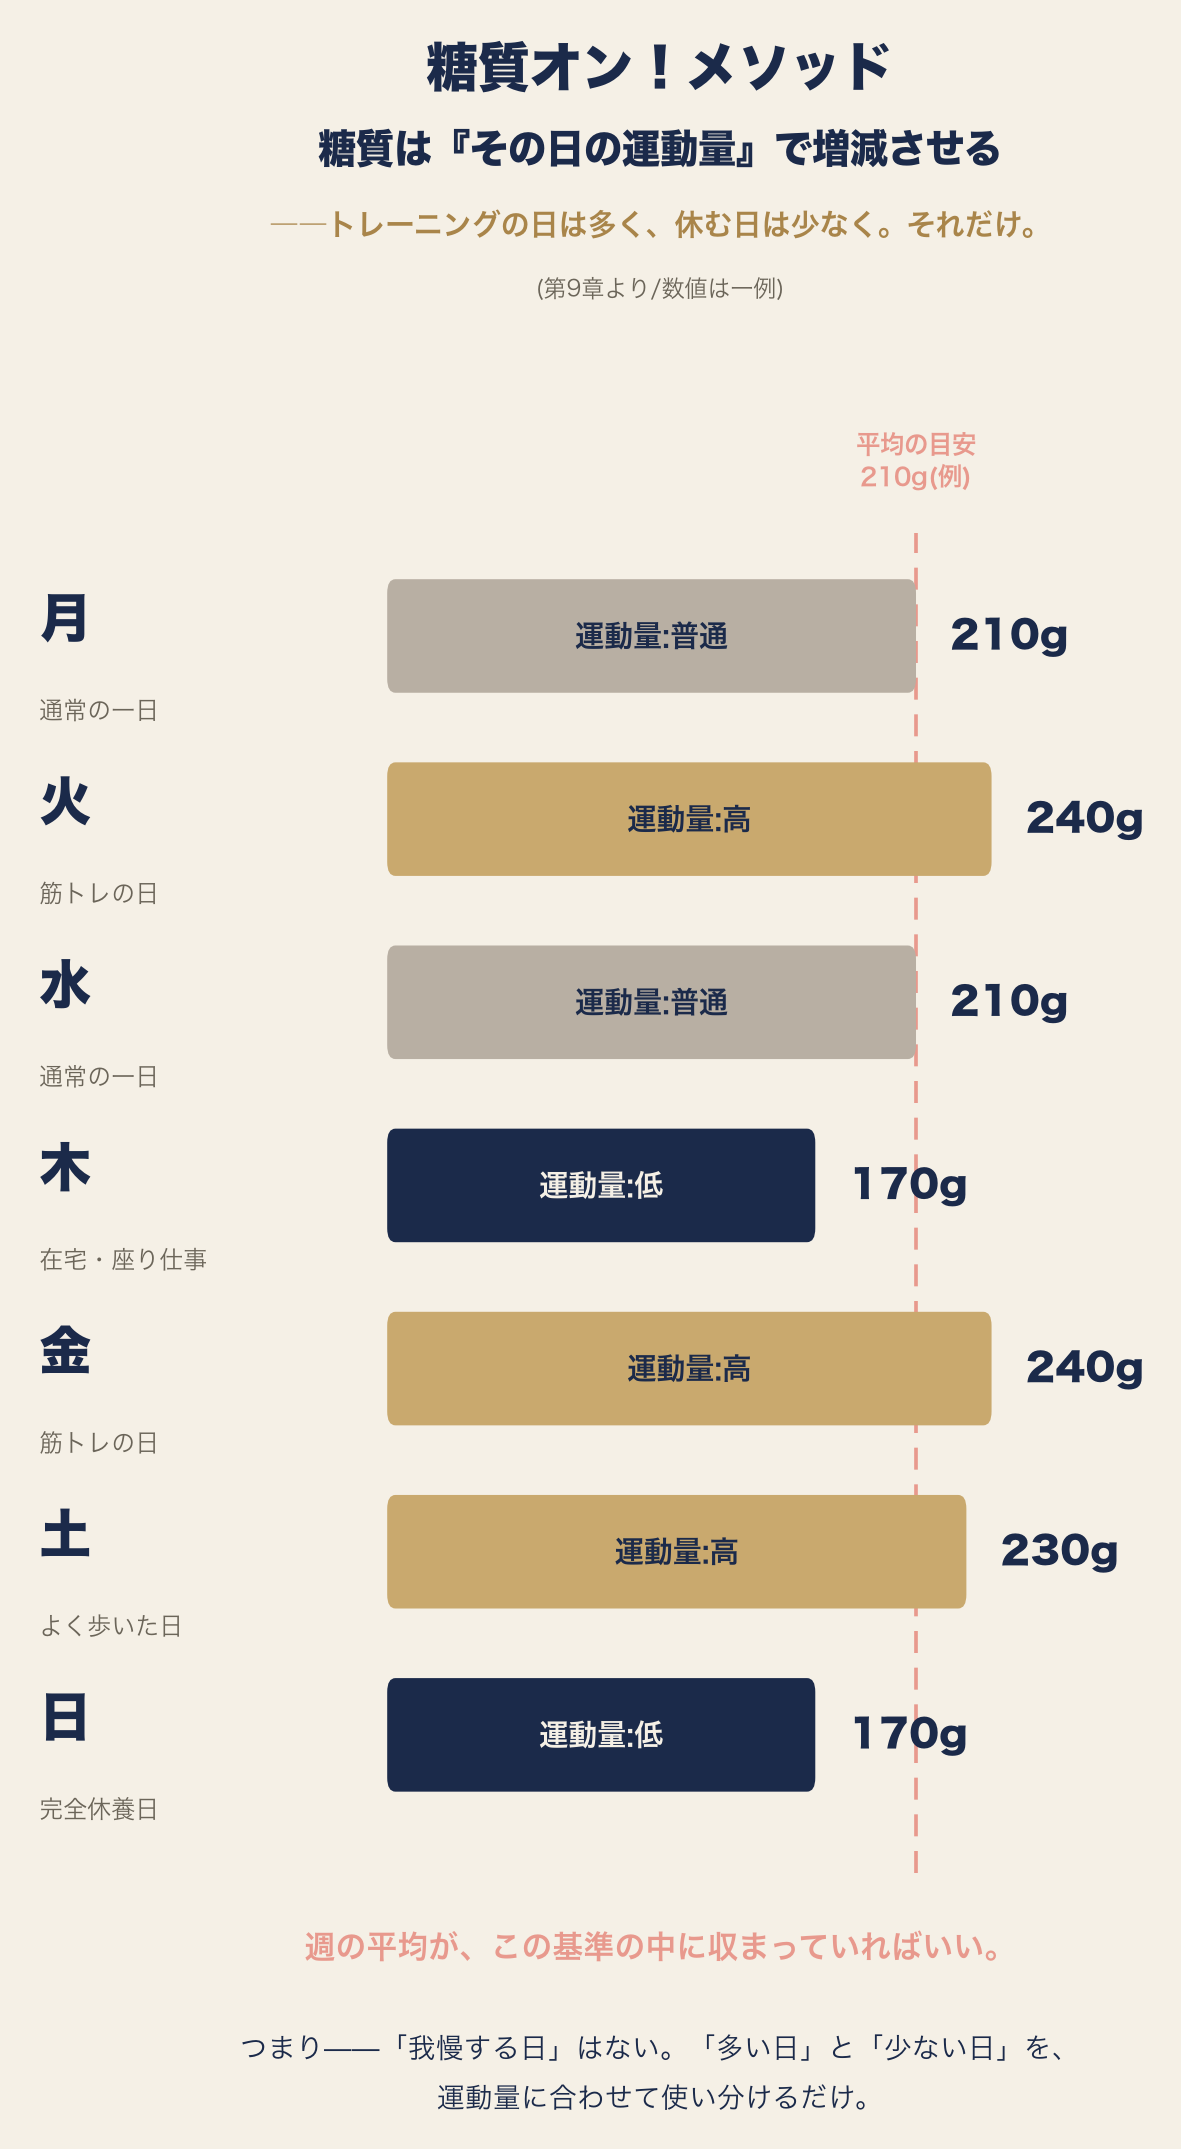
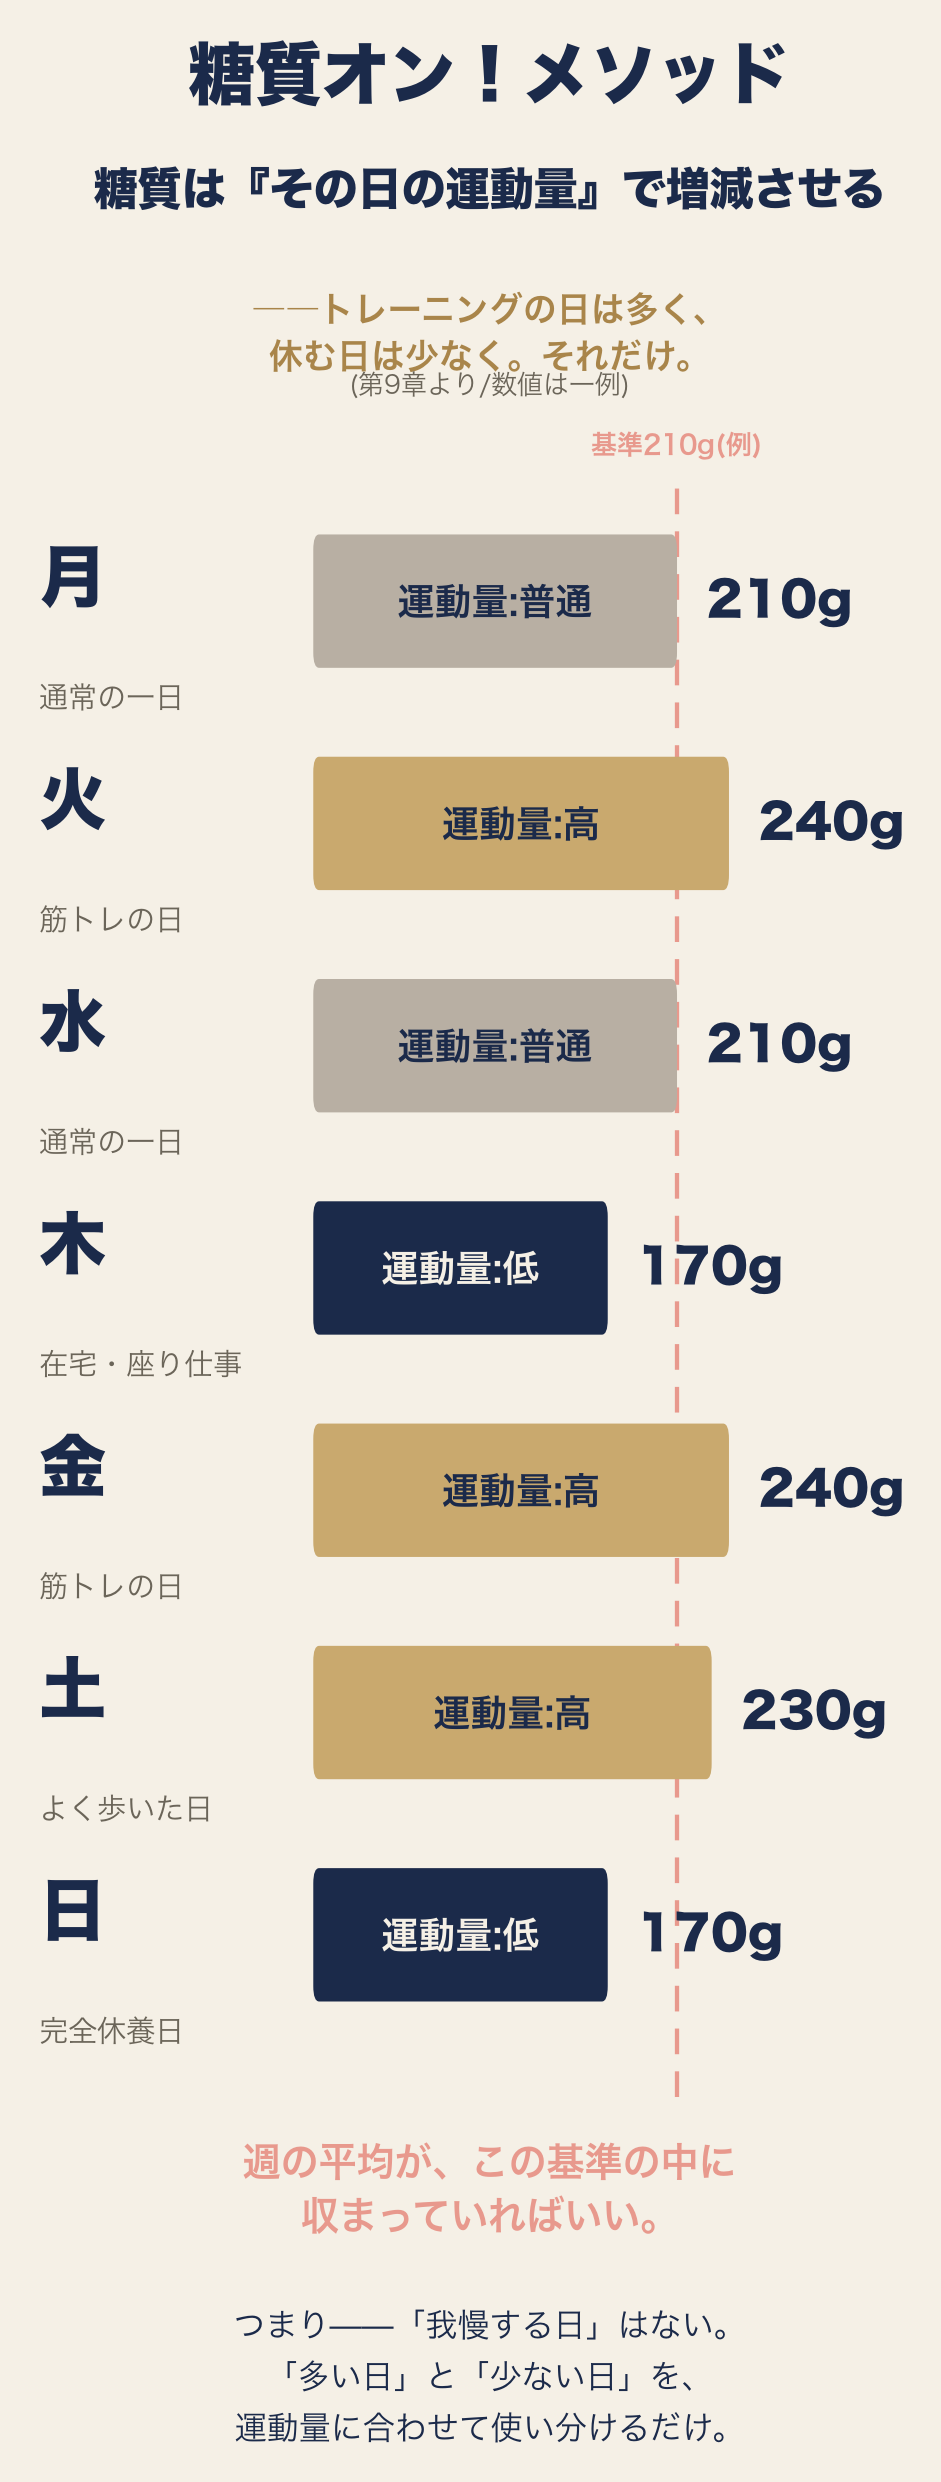
図解03をスマホ表示幅に最適化し文字を大幅拡大(キャンバス幅を縮小してテキスト比率を強化、折返し調整)

diff --git a/index.html b/index.html
@@ -359,7 +359,7 @@
 
         <!-- 図解画像 zukai03.png -->
         <div class="reveal-on-scroll relative w-full rounded-sm overflow-hidden border border-[#C9A96E]/20 shadow-sm bg-[#F5F0E6] mb-4">
-          <img src="zukai03.png?v=4" alt="糖質オン！メソッド 糖質は『その日の運動量』で増減させる" class="w-full h-auto block" onerror="window.repairAssetSource(this, true);">
+          <img src="zukai03.png?v=5" alt="糖質オン！メソッド 糖質は『その日の運動量』で増減させる" class="w-full h-auto block" onerror="window.repairAssetSource(this, true);">
         </div>
         <p class="reveal-on-scroll text-center text-[13px] md:text-[14px] text-[#3A4560] font-medium mb-12">
           糖質オン！メソッド――糖質は『その日の運動量』で増減させる